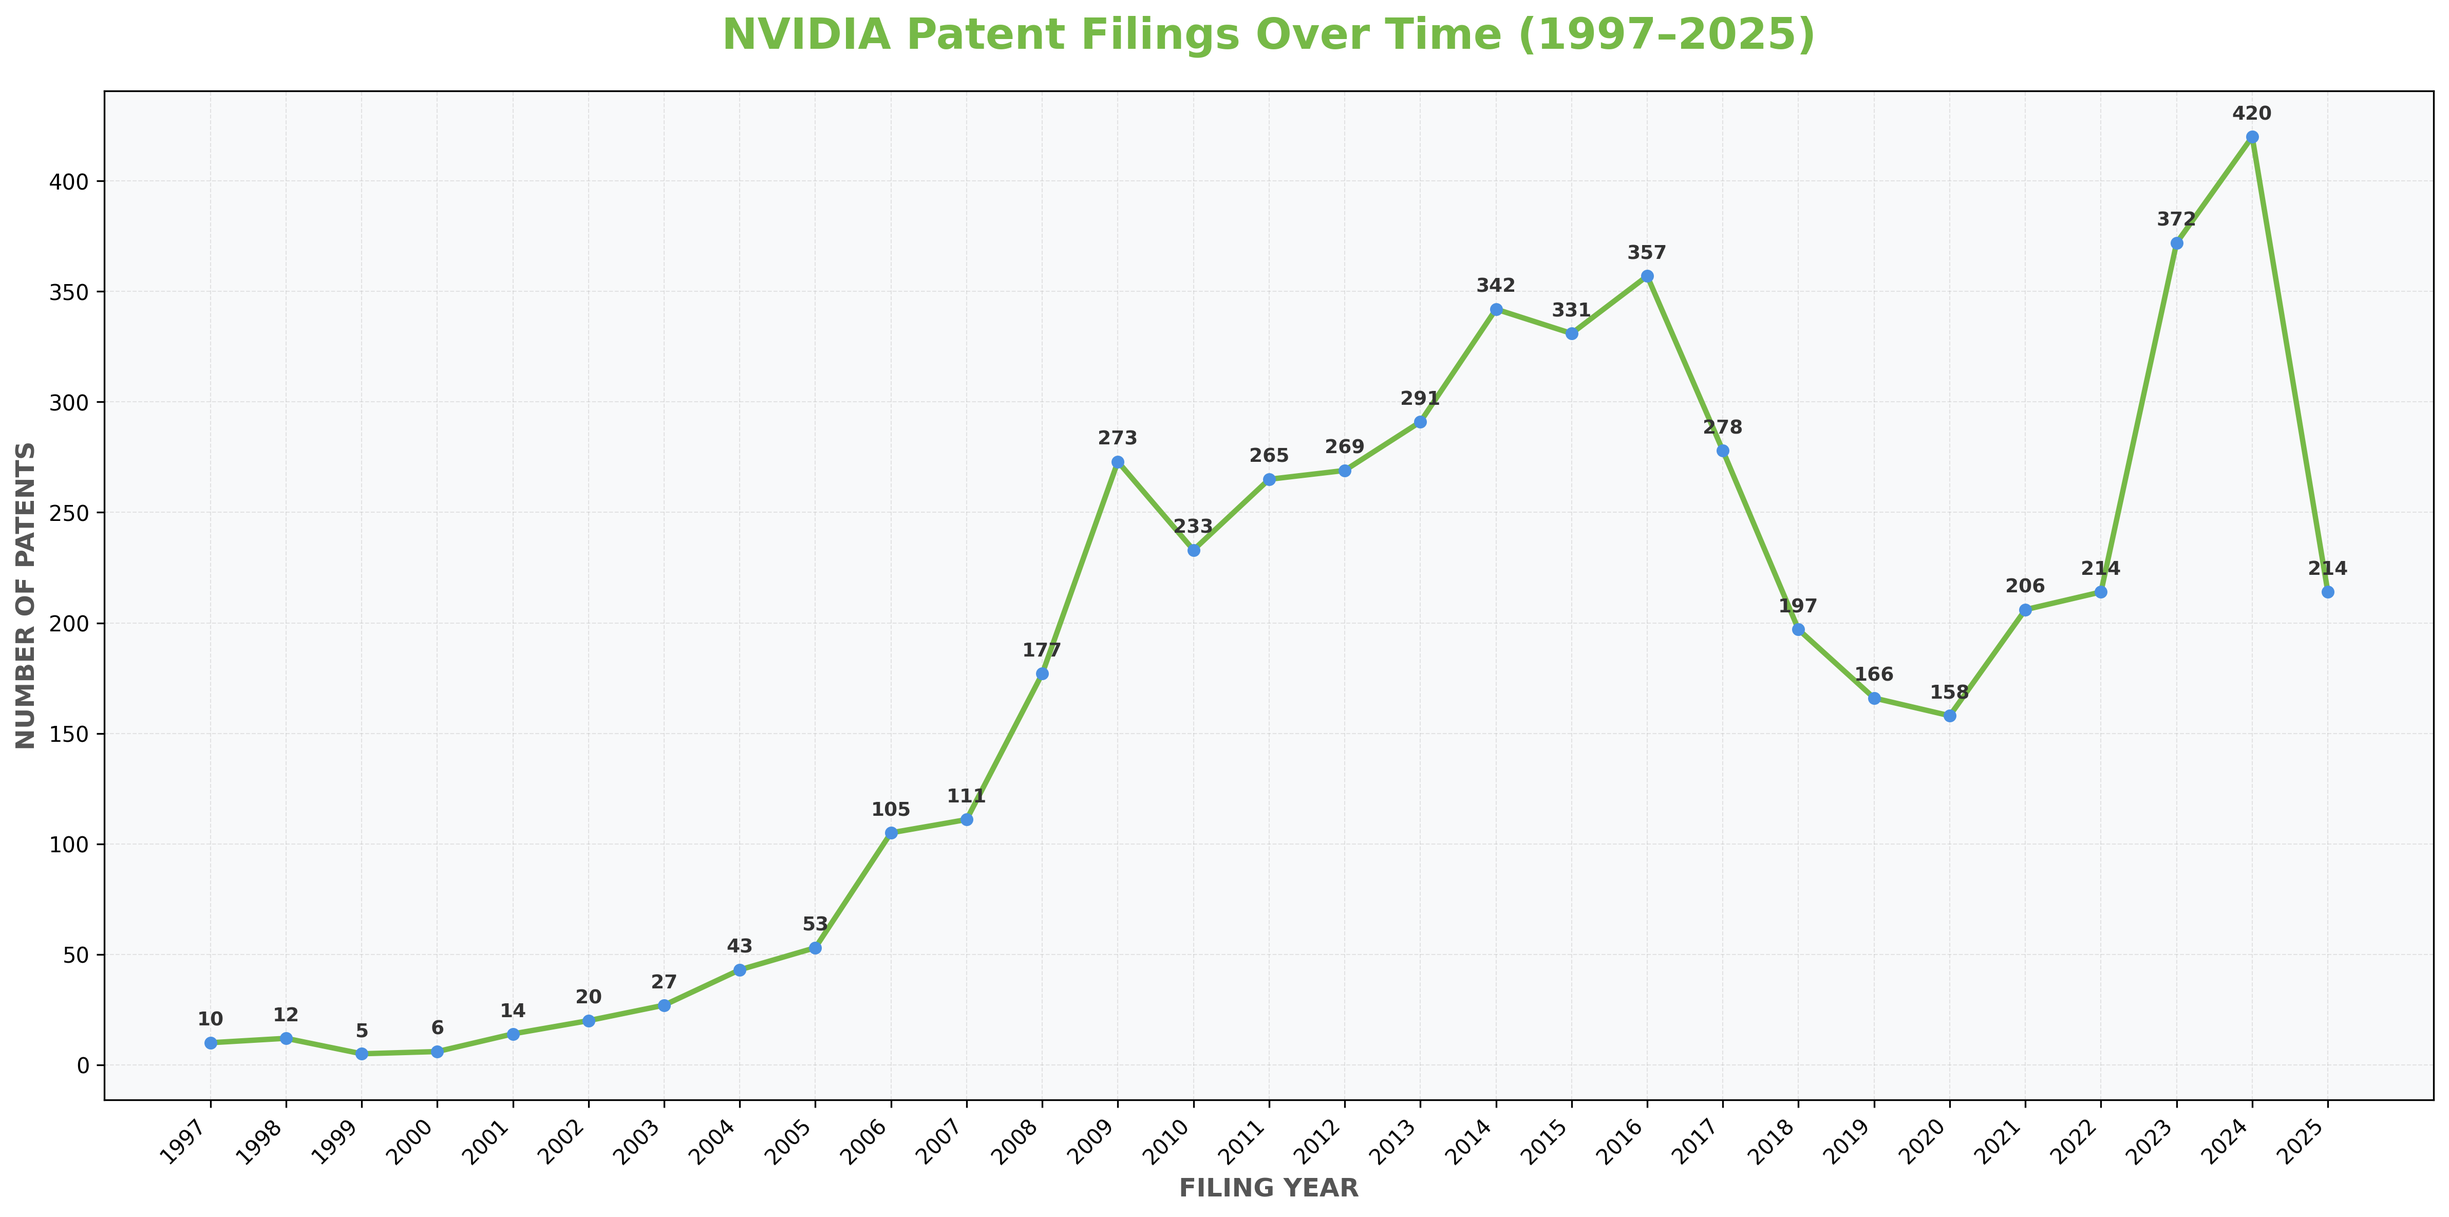
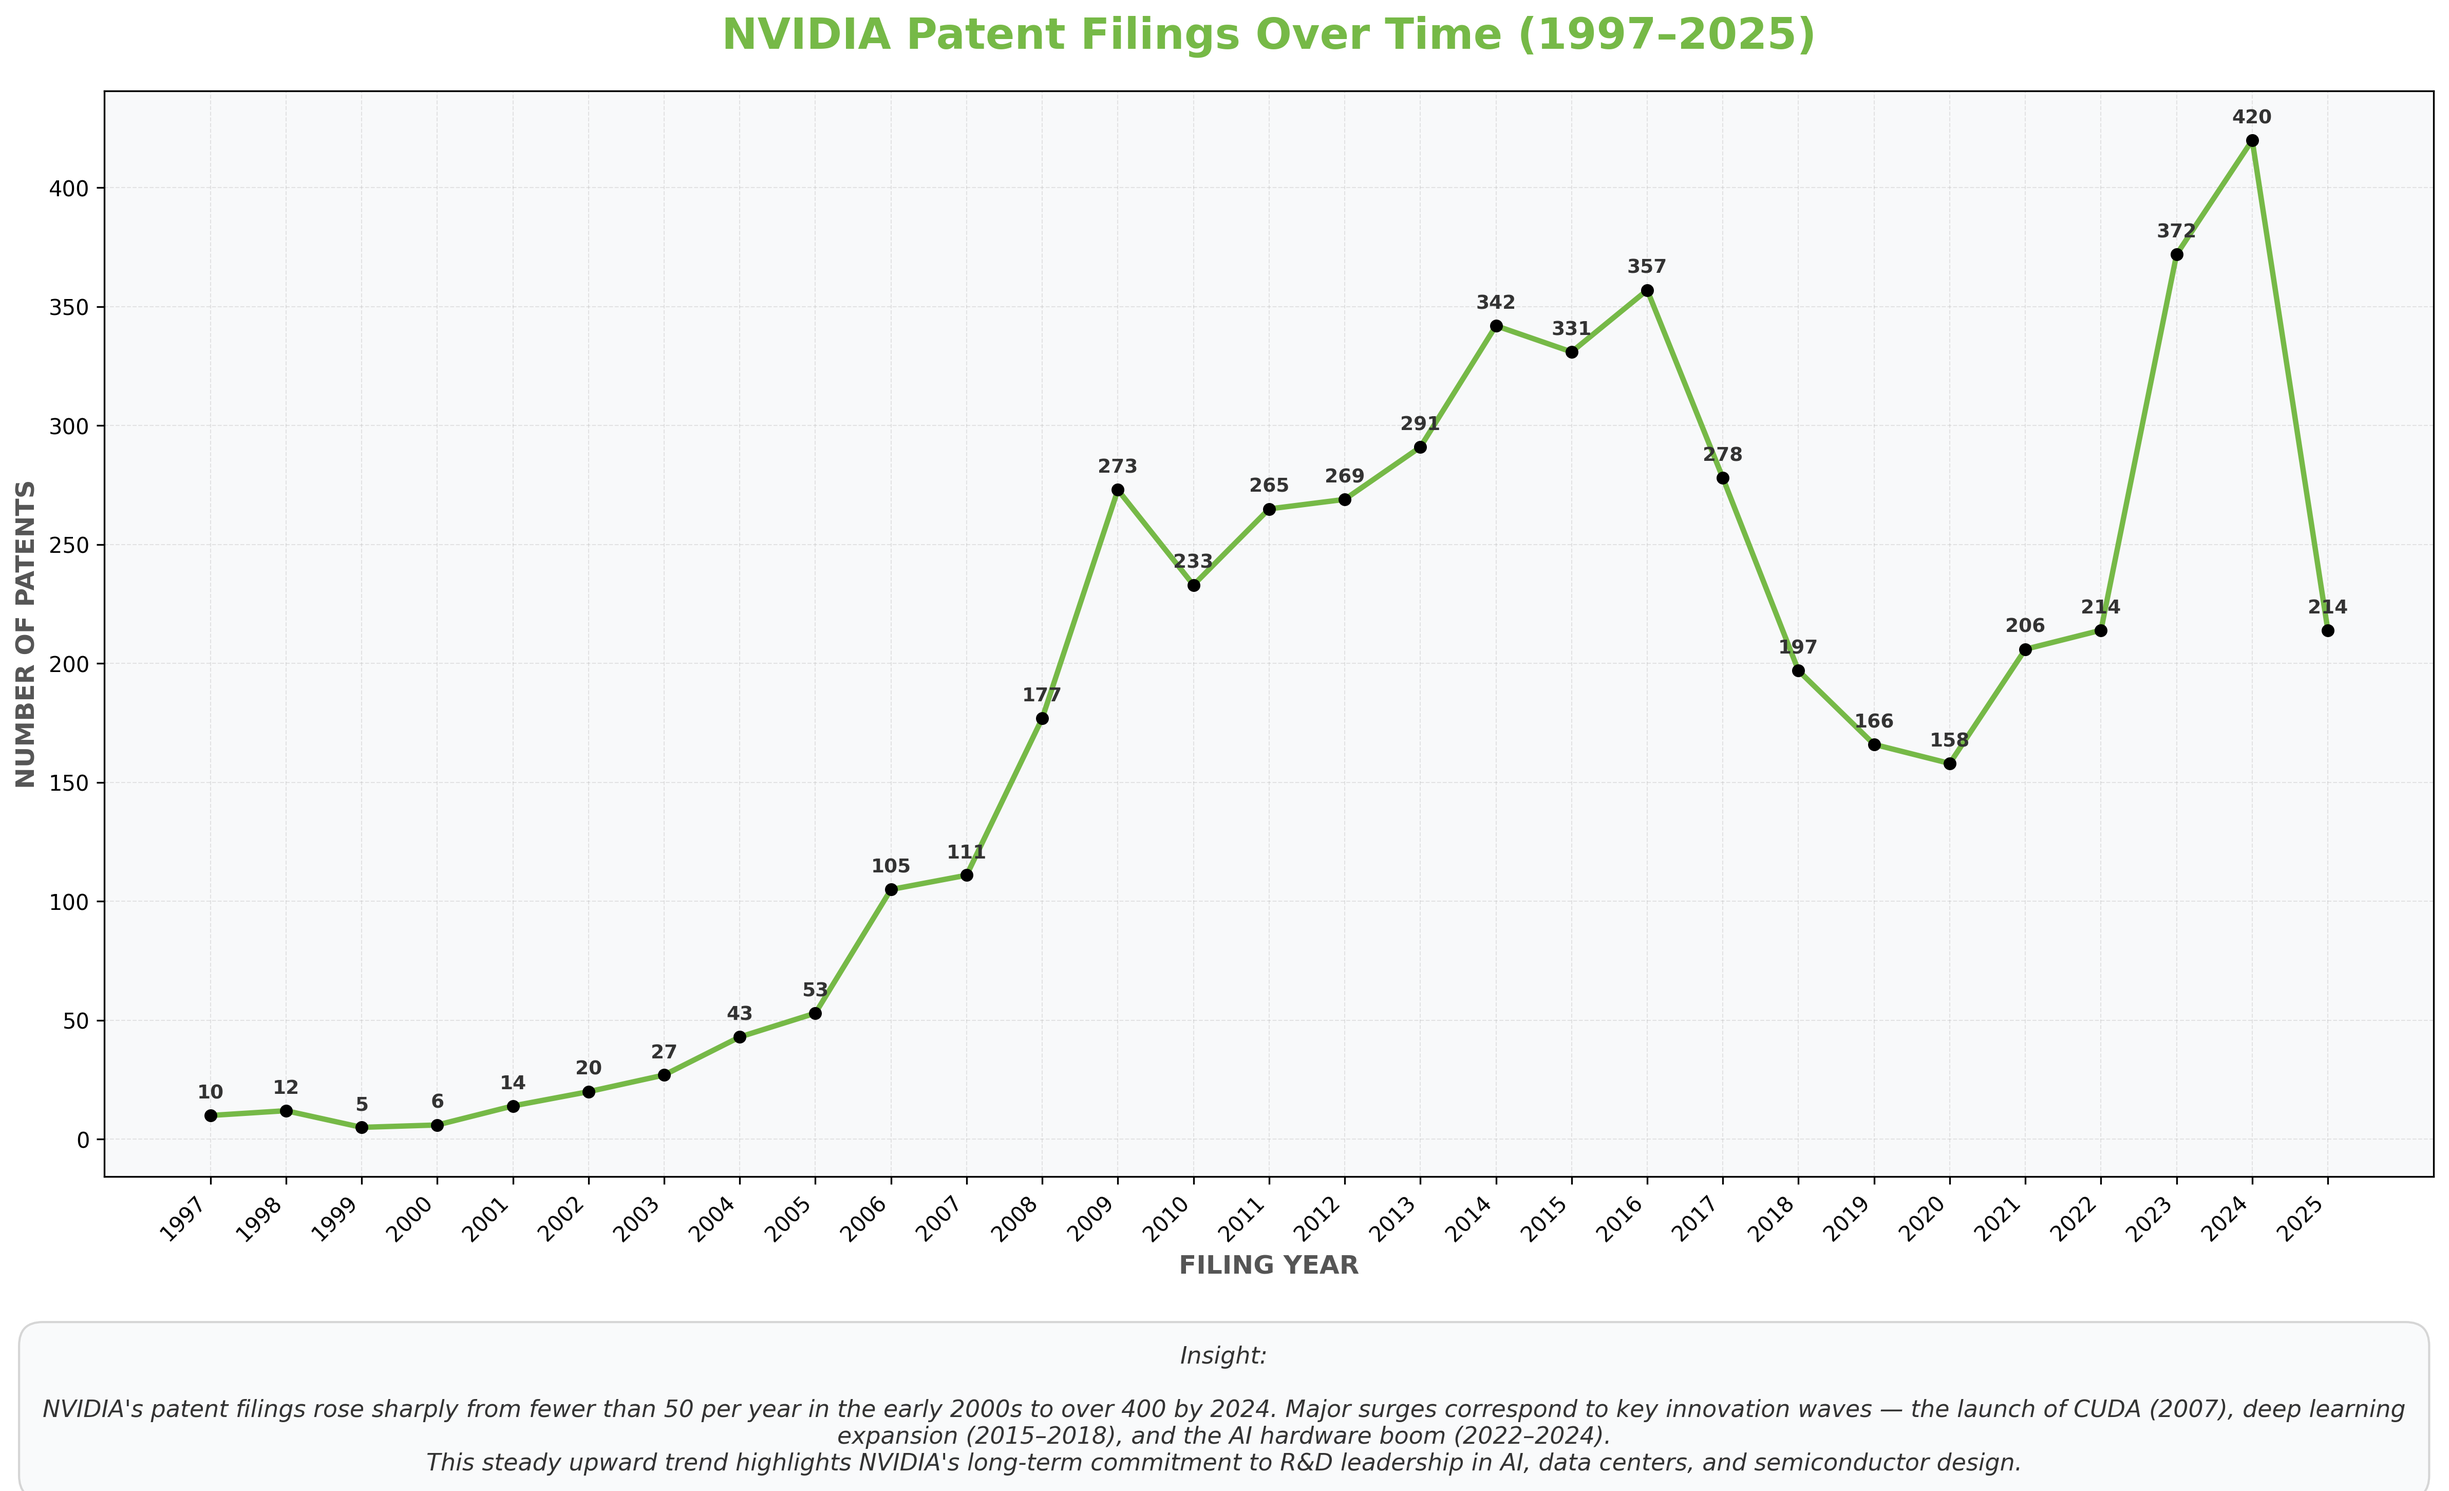
Update chart: change marker color to black and add insight text

diff --git a/visualize_patent_trend.py b/visualize_patent_trend.py
@@ -34,7 +34,7 @@ def create_patent_trend_chart():
     print(f"\nPatent filings by year:\n{patent_counts.to_string(index=False)}\n")
     
     # Create the line chart
-    fig, ax = plt.subplots(figsize=(16, 8))
+    fig, ax = plt.subplots(figsize=(16, 10))
     
     # Plot line with markers
     ax.plot(patent_counts['filing_year'], 
@@ -43,7 +43,7 @@ def create_patent_trend_chart():
             linewidth=2.5,
             markersize=6,
             color='#76B947',  # NVIDIA green
-            markerfacecolor='#4A90E2',
+            markerfacecolor='black',
             markeredgewidth=0)
     
     # Add value labels on each point
@@ -89,8 +89,26 @@ def create_patent_trend_chart():
     ax.set_facecolor('#F8F9FA')
     fig.patch.set_facecolor('white')
     
-    # Adjust layout
-    plt.tight_layout()
+    # Adjust layout to make room for text
+    plt.tight_layout(rect=[0, 0.15, 1, 1])
+    
+    # Add insight text below the chart
+    insight_text = (
+        "Insight:\n\n"
+        "NVIDIA's patent filings rose sharply from fewer than 50 per year in the early 2000s to over 400 by 2024. "
+        "Major surges correspond to key innovation waves — the launch of CUDA (2007), deep learning expansion (2015–2018), "
+        "and the AI hardware boom (2022–2024).\n"
+        "This steady upward trend highlights NVIDIA's long-term commitment to R&D leadership in AI, data centers, and semiconductor design."
+    )
+    
+    fig.text(0.5, 0.08, insight_text,
+            ha='center',
+            va='center',
+            fontsize=11,
+            color='#333333',
+            style='italic',
+            wrap=True,
+            bbox=dict(boxstyle='round,pad=1', facecolor='#F8F9FA', edgecolor='#CCCCCC', alpha=0.8))
     
     # Save the chart
     output_file = 'analysis_report/nvidia_patent_trend_chart.png'
